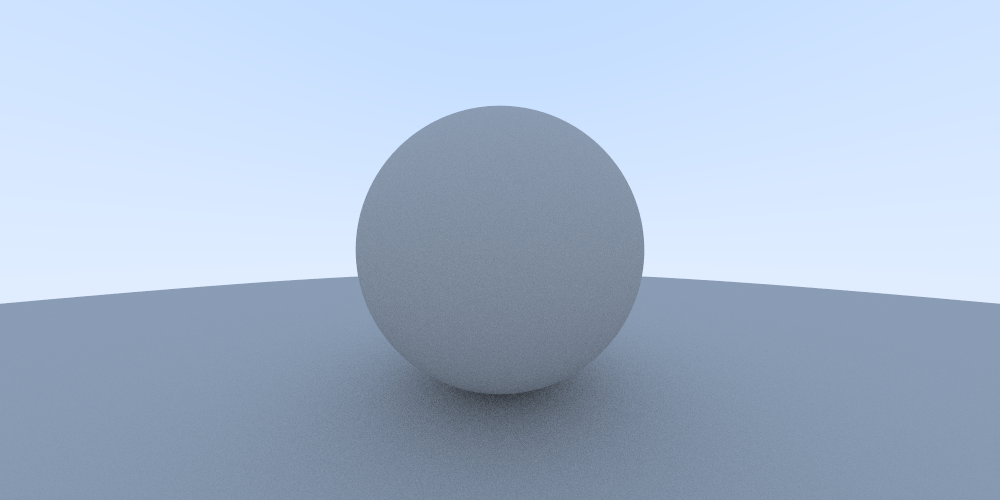
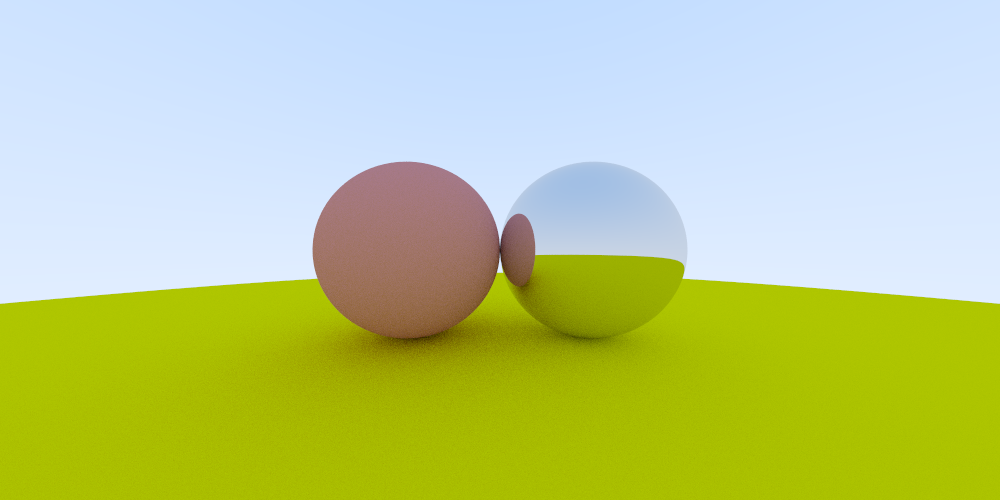
Implement basic metal shading

diff --git a/main.py b/main.py
@@ -1,8 +1,8 @@
 import math
 import random
+import pygame
 import numpy as np
 # import multiprocessing as mp
-import pygame
 from PIL import Image
 from threed.vec3 import Vec3
 from threed.ray import Ray
@@ -10,6 +10,9 @@ from threed.sphere import Sphere
 from threed.hittable import Hittable, HitRecord
 from threed.hittable_list import HittableList
 from threed.camera import Camera
+
+from threed.lambert_material import Lambertian
+from threed.metal_material import Metal
 
 pygame.init()
 
@@ -38,9 +41,13 @@ def ray_color(r: Ray, world: Hittable, depth: int):
 
     did_hit, rec = world.hit(r, 0.001, float("inf"), rec)
     if did_hit:
-        target = rec.p + rec.normal + random_unit_vector()
-        return 0.5 * ray_color(Ray(rec.p, target - rec.p), world, depth-1)
-        # return 0.5 * (rec.normal + Vec3(1, 1, 1))
+        scattered = Ray(Vec3(0, 0, 0), Vec3(1, 1, 1))
+        attenuation = Vec3(0, 0, 0)
+        scatter, scattered, attenuation = rec.material.scatter(r, rec, attenuation, scattered)
+
+        if scatter:
+            return attenuation * ray_color(scattered, world, depth-1)
+        return Vec3(0, 0, 0)
     unit_direction = Vec3.normalize(r.dir)
     t = 0.5*(unit_direction.y + 1.0)
     return (1.0-t) * Vec3(1.0, 1.0, 1.0) + t * Vec3(0.5, 0.7, 1.0)
@@ -66,8 +73,9 @@ def main():
     samples_per_pixel = 100
 
     world = HittableList()
-    world.add(Sphere(Vec3(0, 0, -1), 0.5))
-    world.add(Sphere(Vec3(0, -100.5, -1), 100))
+    world.add(Sphere(Vec3(-0.5, 0, -1.5), 0.5, Lambertian(Vec3(0.7, 0.3, 0.3))))
+    world.add(Sphere(Vec3(0, -100.5, -1), 100, Lambertian(Vec3(0.8, 0.8, 0.0))))
+    world.add(Sphere(Vec3(0.5, 0, -1.5), 0.5, Metal(Vec3(0.8, 0.8, 0.8))))
 
     cam = Camera()
 
@@ -76,7 +84,7 @@ def main():
     for x in range(0, image_width):
         for y in range(0, image_height):
             pixel = Vec3(0, 0, 0)
-            for s in range(0,samples_per_pixel):
+            for s in range(0, samples_per_pixel):
                 u = (x + random.uniform(0, 0.999)) / image_width
                 v = (y + random.uniform(0, 0.999)) / image_height
                 r = cam.get_ray(u, v)

diff --git a/threed/sphere.py b/threed/sphere.py
@@ -2,11 +2,13 @@ import math
 from .vec3 import Vec3
 from .ray import Ray
 from .hittable import Hittable, HitRecord
+from .material import Material
 
 class Sphere(Hittable):
-    def __init__(self, center: Vec3, radius):
+    def __init__(self, center: Vec3, radius: float, material: Material):
         self.center = center
         self.radius = radius
+        self.material = material
 
     def hit(self, r: Ray, t_min: float, t_max: float, rec: HitRecord):
         oc = r.orig - self.center
@@ -23,6 +25,7 @@ class Sphere(Hittable):
                 rec.p = r.at(rec.t)
                 outward_normal = (rec.p - self.center) / self.radius
                 rec.set_face_normal(r, outward_normal)
+                rec.material = self.material
                 return (True, rec)
             temp = (-half_b + root) / a
             if t_min < temp < t_max:
@@ -30,5 +33,6 @@ class Sphere(Hittable):
                 rec.p = r.at(rec.t)
                 outward_normal = (rec.p - self.center) / self.radius
                 rec.set_face_normal(r, outward_normal)
+                rec.material = self.material
                 return (True, rec)
         return (False, rec)

diff --git a/threed/hittable.py b/threed/hittable.py
@@ -1,14 +1,21 @@
 from abc import ABC, abstractmethod
-from typing import NamedTuple
 from .vec3 import Vec3
 from .ray import Ray
+from .material import Material
+from .lambert_material import Lambertian
 
 class HitRecord(object):
-    def __init__(self, p=Vec3(0, 0, 0), normal=Vec3(1, 1, 1), t=1, front_face=False):
+    def __init__(self,
+                 p=Vec3(0, 0, 0),
+                 normal=Vec3(1, 1, 1),
+                 t=1,
+                 front_face=False,
+                 material=Lambertian(Vec3(0, 0, 0))):
         self.p = p
         self.normal = normal
         self.t = t
         self.front_face = front_face
+        self.material = material
 
     def set_face_normal(self, r: Ray, outward_normal: Vec3):
         front_face = Vec3.dot(r.dir, outward_normal) < 0

diff --git a/threed/lambert_material.py b/threed/lambert_material.py
@@ -1,0 +1,21 @@
+import math
+import random
+from .material import Material
+from .vec3 import Vec3
+from .ray import Ray
+
+def random_unit_vector():
+    a = random.uniform(0, 2*math.pi)
+    z = random.uniform(-1, 1)
+    r = math.sqrt(1 - z ** 2)
+    return Vec3(r*math.cos(a), r*math.sin(a), z)
+
+class Lambertian(Material):
+    def __init__(self, albedo: Vec3):
+        self.albedo = albedo
+
+    def scatter(self, r_in: Ray, rec, attenuation: Vec3, scattered: Ray):
+        scatter_direction = rec.normal + random_unit_vector()
+        scattered = Ray(rec.p, scatter_direction)
+        attenuation = self.albedo
+        return (True, scattered, attenuation)

diff --git a/threed/metal_material.py b/threed/metal_material.py
@@ -1,0 +1,16 @@
+from .material import Material
+from .vec3 import Vec3
+from .ray import Ray
+
+def reflect(v: Vec3, n: Vec3):
+    return v - 2 * Vec3.dot(v, n) * n
+
+class Metal(Material):
+    def __init__(self, albedo: Vec3):
+        self.albedo = albedo
+
+    def scatter(self, r_in: Ray, rec, attenuation: Vec3, scattered: Ray):
+        reflected = reflect(Vec3.normalize(r_in.dir), rec.normal)
+        scattered = Ray(rec.p, reflected)
+        attenuation = self.albedo
+        return (Vec3.dot(scattered.dir, rec.normal) > 0, scattered, attenuation)

diff --git a/threed/material.py b/threed/material.py
@@ -1,0 +1,12 @@
+from abc import ABC, abstractmethod
+from .vec3 import Vec3
+from .ray import Ray
+
+class Material(ABC):
+    @abstractmethod
+    def scatter(self,
+                r_in: Ray,
+                rec,
+                attenuation: Vec3,
+                scattered: Ray):
+        pass
